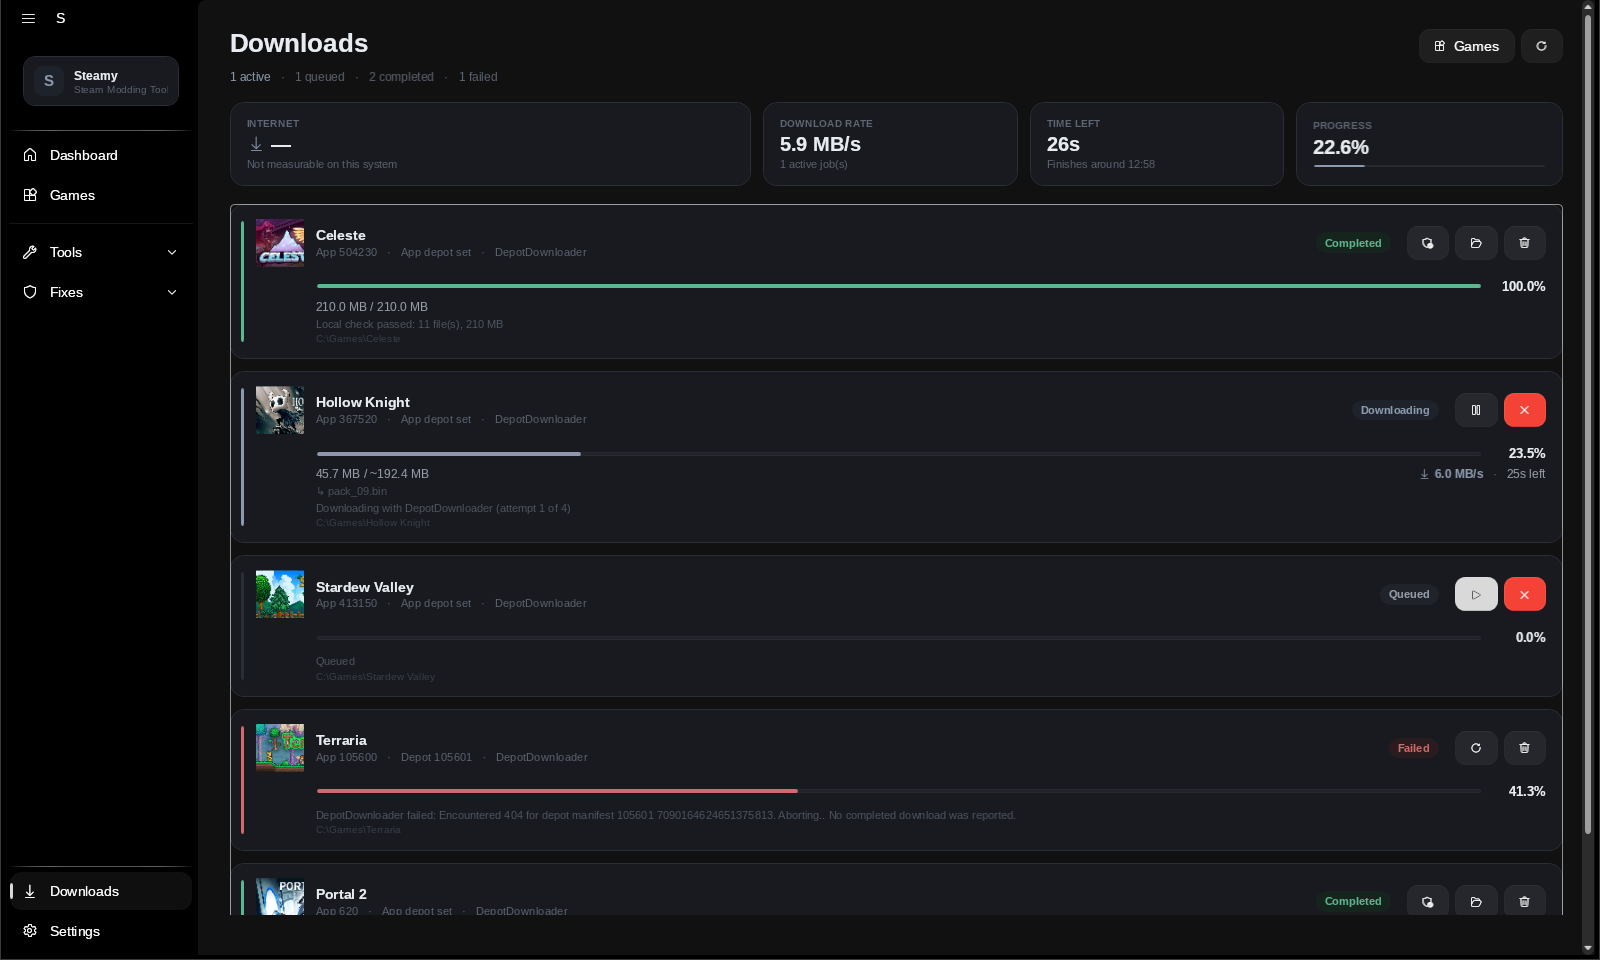
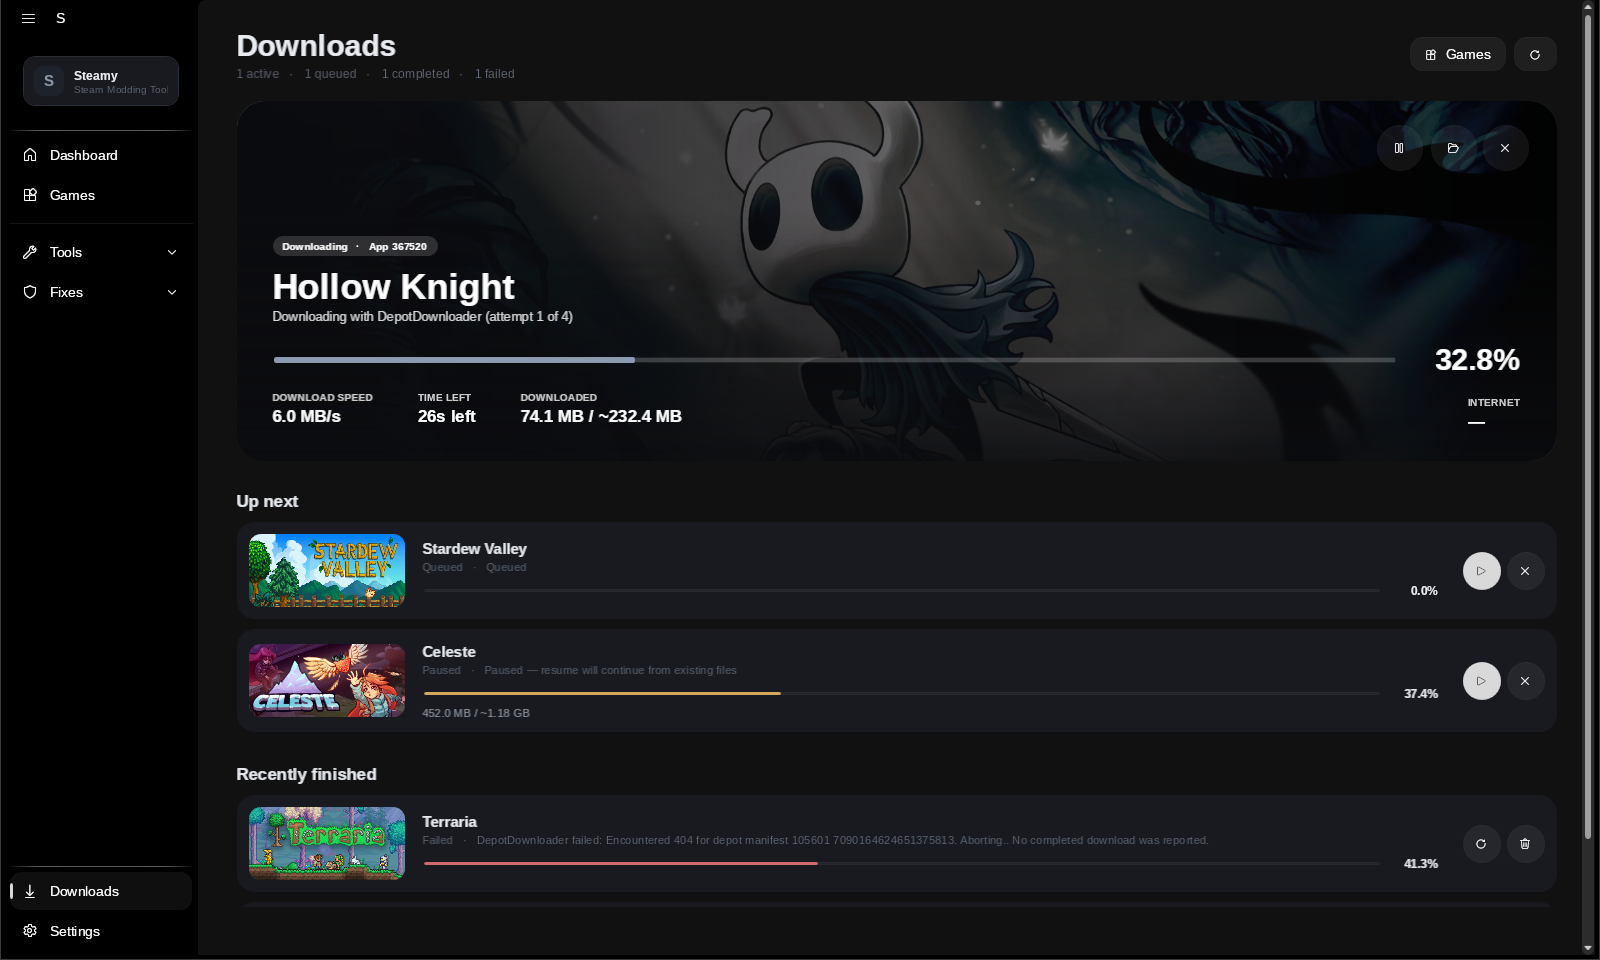
Release 0.1.2 with the new Downloads page

diff --git a/README.md b/README.md
@@ -49,10 +49,11 @@ Every tool is wired up, configured, and ready to go. No command lines. No README
 
 <br/>
 
-## ✨ What's new in 0.1.1
+## ✨ What's new in 0.1.2
 
+- **Downloads like a game launcher** — the current download in a big banner on its game art, with speed, time left and the live internet curve; "Up next" and "Recently finished" below
 - **Auto-update** — Steamy checks for a new version at startup and updates itself with one click
-- **Live download panel** — internet speed with a live graph, download rate, time left and overall progress
+- **Live stats** — internet speed with a live graph, download rate and time left
 - **Smooth progress** — downloads move in 0.1 % steps instead of jumping once per file
 - **Fresh dashboard** — calmer layout, colored quick actions, one clean side panel
 
@@ -171,7 +172,8 @@ Full-featured download manager built in.
   <img src="docs/screenshots/downloads.png" width="900" alt="Steamy downloads" />
 </p>
 
-- **Live panel** — internet speed with a 30-second graph, combined download rate, time left and overall progress
+- **Featured download** — a large banner on the game's art with progress, speed, time left, size and a 30-second internet speed graph
+- **Up next / Recently finished** — the queue and finished downloads as clean rows with game art
 - **Smooth progress** — moves in 0.1 % steps between the tool's per-file updates; several depots add up to one overall value
 - **Per download** — speed, size estimate, time left and the file being written
 - **Faster** — choose how many connections each download uses; Lancache support

diff --git a/CHANGELOG.md b/CHANGELOG.md
@@ -3,6 +3,13 @@
 Each GitHub release uses the section of its version as its release notes.
 Add a new `## x.y.z` section at the top before tagging.
 
+## 0.1.2
+
+### New
+- Downloads redesigned like a game launcher: the current download is featured in a large banner on its game art with a big progress bar, percentage, speed, time left, size and the live internet curve.
+- "Up next" shows the queue and "Recently finished" the done and failed downloads, as clean rows with game art.
+- With nothing running, the banner offers "Start next" for the first waiting download.
+
 ## 0.1.1
 
 ### New
